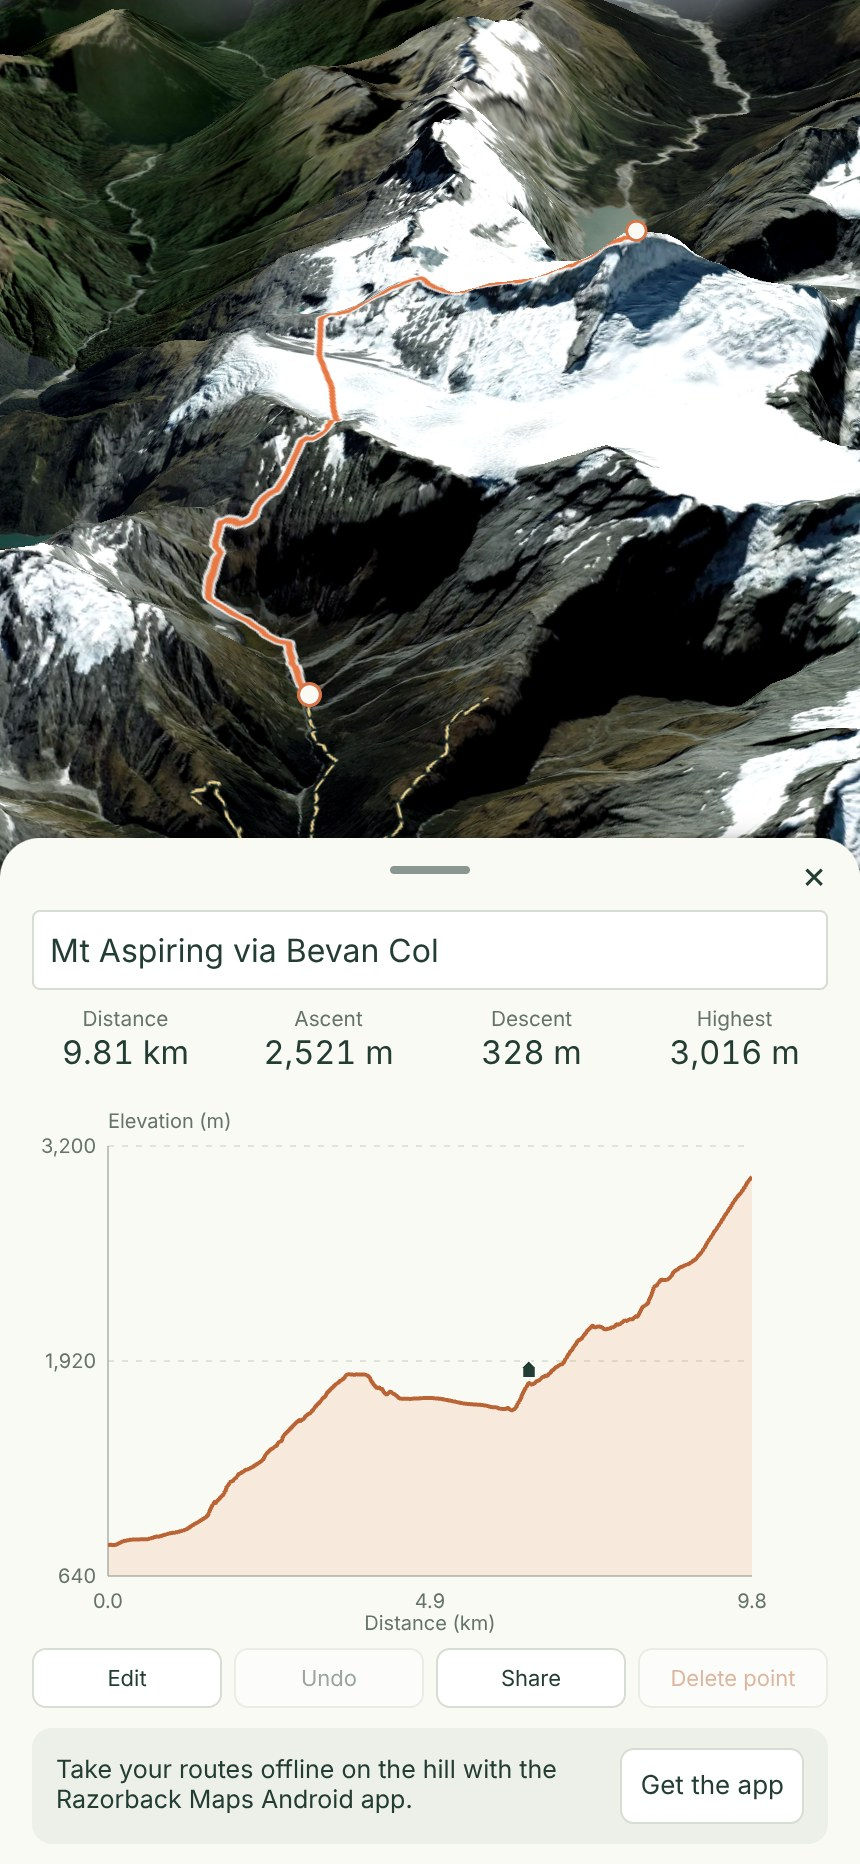
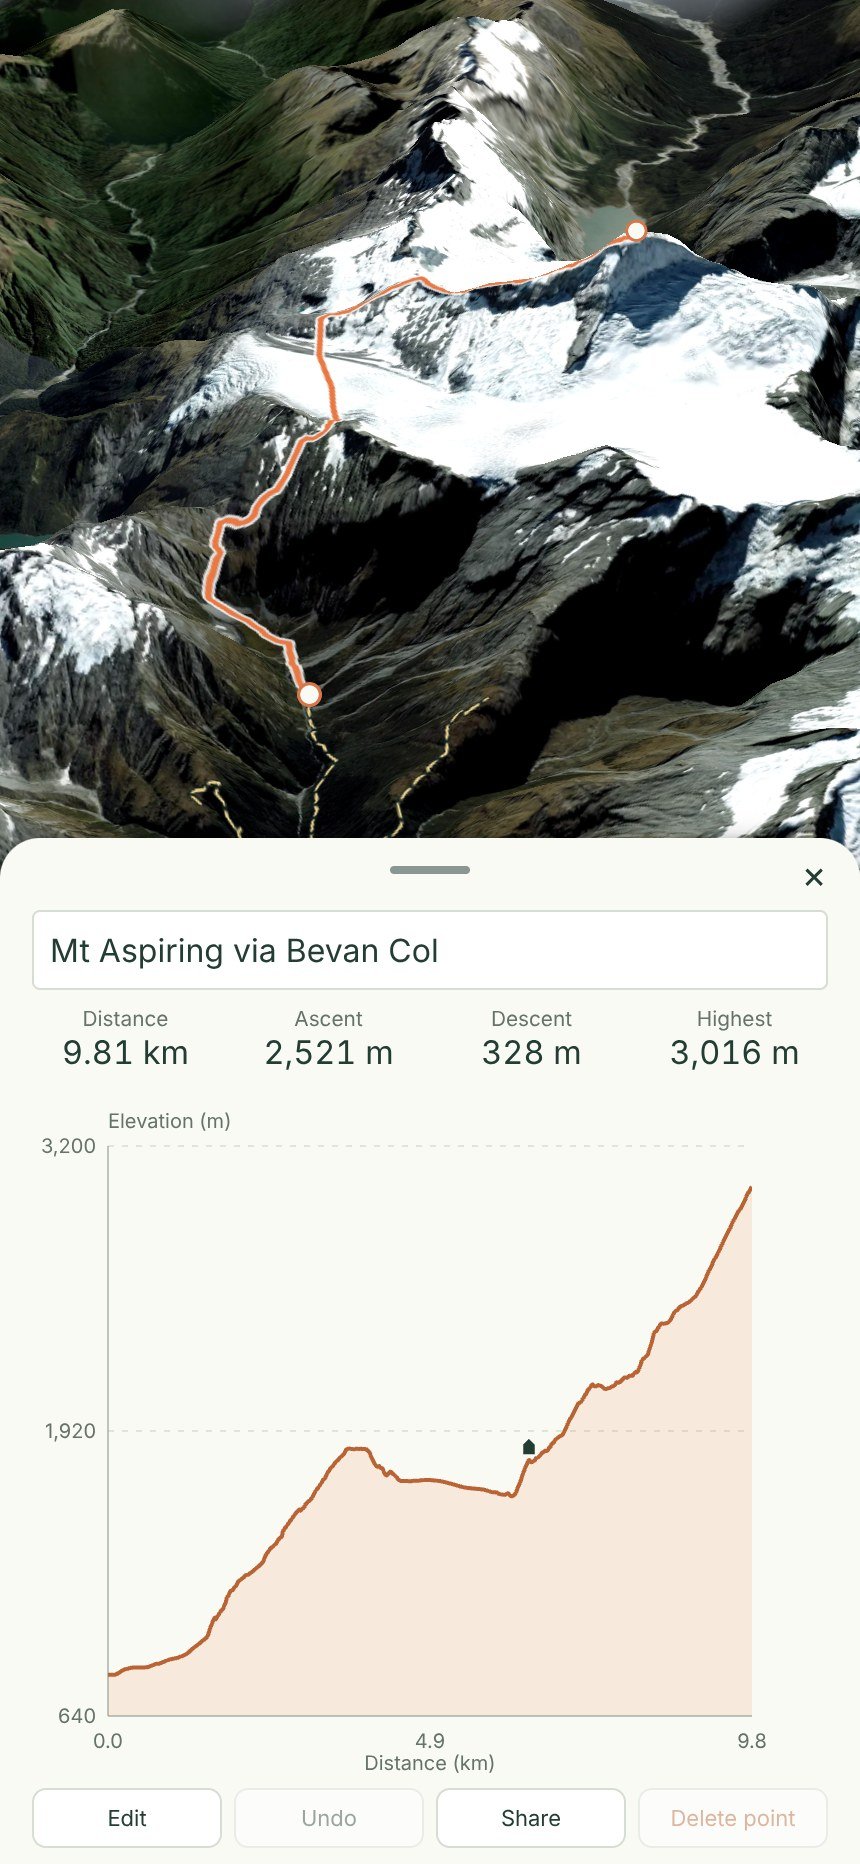
Website: offline picture with the features (four phones), brand beside the sign-up; route picture without the get-the-app note
Claude-Session: https://claude.ai/code/session_01KPVqhqnoVD1XLxnyNFCGVE

Changed region(s): [[0.0605, 0.809, 0.9372, 0.9957], [0.2419, 0.6534, 0.8465, 0.8401], [0.8465, 0.6223, 0.8767, 0.6534]]

diff --git a/website/src/about/index.html b/website/src/about/index.html
@@ -31,7 +31,7 @@
 
   <section id="features">
     <div class="wrap">
-      <div class="trio">
+      <div class="trio four">
         <figure class="phone">
           <picture><source type="image/webp" srcset="/img/promo/walk.webp"><img src="/img/promo/walk.jpg" alt="The Gillespie Pass Circuit in 3D, with its distance, climb and elevation profile with the huts along it" width="860" height="1864" loading="lazy" decoding="async"></picture>
           <figcaption><h2>Every DOC walk and hut</h2><p>Distance, climb, an elevation profile and the huts along the way, for every track DOC looks after.</p></figcaption>
@@ -44,6 +44,10 @@
           <picture><source type="image/webp" srcset="/img/promo/topo.webp"><img src="/img/promo/topo.jpg" alt="NZ Topo50 of the Routeburn Track from Harris Saddle to Routeburn Falls Hut" width="860" height="1864" loading="lazy" decoding="async"></picture>
           <figcaption><h2>NZ Topo, sharp</h2><p>The Topo50 map at full detail, with Te Araroa's sections, food stops and live alerts on top.</p></figcaption>
         </figure>
+        <figure class="phone">
+          <picture><source type="image/webp" srcset="/img/promo/offline.webp"><img src="/img/promo/offline.jpg" alt="The app's offline maps: the Travers-Sabine Circuit painted for download, Maximum detail over Travers Saddle and Standard along the valleys" width="860" height="1864" loading="lazy" decoding="async"></picture>
+          <figcaption><h2>Offline, painted to fit</h2><p>In the app, paint the area you need: high detail over the passes, lighter along the valleys, so the download stays small.</p></figcaption>
+        </figure>
       </div>
     </div>
   </section>
@@ -53,7 +57,7 @@
       <div class="app-band with-phone">
         <div>
           <h2>Take it on the hill</h2>
-          <p>The app keeps the map on your phone – whole areas or Te Araroa sections, with your routes and your position – for where there's no reception. Paint what you need: high detail over the passes, lighter along the valleys, so the download stays small.</p>
+          <p>The app keeps the map on your phone – whole areas or Te Araroa sections, with your routes and your position – for where there's no reception.</p>
           <form class="notify" data-notify novalidate>
             <label class="visually-hidden" for="notify-email">Email</label>
             <input id="notify-email" type="email" name="email" placeholder="Your email" autocomplete="email" required>
@@ -64,9 +68,11 @@
           </form>
           <p class="fine">Android first, then iPhone. One email when it's ready; nothing else. <a href="#privacy">Privacy</a></p>
         </div>
-        <figure class="phone">
-          <picture><source type="image/webp" srcset="/img/promo/offline.webp"><img src="/img/promo/offline.jpg" alt="The app's offline maps: the Travers-Sabine Circuit painted for download, Maximum detail over Travers Saddle and Standard along the valleys" width="860" height="1864" loading="lazy" decoding="async"></picture>
-        </figure>
+        <div class="brand-mark" aria-hidden="true">
+          <img src="/img/kea-512.png" alt="" width="512" height="512" loading="lazy" decoding="async">
+          <p>Razorback <b>Maps</b></p>
+          <span>For Android, then iPhone</span>
+        </div>
       </div>
     </div>
   </section>

diff --git a/website/src/css/site.css b/website/src/css/site.css
@@ -155,12 +155,18 @@ details p { margin: 12px 0 0; color: var(--muted); }
 .notify-status { flex-basis: 100%; min-height: 1.4em; margin: 4px 0 0; color: rgb(255 255 255 / 86%); }
 .app-band .fine { color: rgb(255 255 255 / 62%); margin-top: 10px; }
 .app-band .fine a { color: inherit; }
-/* With the offline picture: text left, the phone right; stacked on phones. */
+/* Beside the sign-up: the app's icon and name; stacked on phones. */
 .app-band.with-phone { max-width: 1000px; grid-template-columns: 1.4fr 1fr; text-align: left; gap: 48px; }
 .app-band.with-phone .notify { justify-content: flex-start; }
-.app-band.with-phone .phone { margin: 0; }
-.app-band.with-phone .phone img { display: block; width: 100%; max-width: 320px; height: auto; margin-left: auto; aspect-ratio: 430 / 932; border-radius: 28px; border: 6px solid #0f1c16; box-shadow: 0 18px 48px rgb(0 0 0 / 35%); }
-@media (max-width: 860px) { .app-band.with-phone { grid-template-columns: 1fr; text-align: center; } .app-band.with-phone .notify { justify-content: center; } .app-band.with-phone .phone img { margin: 0 auto; max-width: 300px; } }
+.brand-mark { display: flex; flex-direction: column; align-items: center; text-align: center; gap: 10px; }
+.brand-mark img { width: 100%; max-width: 200px; height: auto; border-radius: 22%; box-shadow: 0 18px 48px rgb(0 0 0 / 35%); }
+.brand-mark p { margin: 8px 0 0; font-size: 1.6rem; color: #fff; letter-spacing: -.01em; }
+.brand-mark span { font-size: .9rem; color: rgb(255 255 255 / 62%); }
+@media (max-width: 860px) { .app-band.with-phone { grid-template-columns: 1fr; text-align: center; } .app-band.with-phone .notify { justify-content: center; } .brand-mark { order: -1; } .brand-mark img { max-width: 120px; } }
+/* Four phones: four across, two on tablets, one on phones. */
+.trio.four { grid-template-columns: repeat(4, 1fr); gap: 24px; }
+@media (max-width: 1100px) { .trio.four { grid-template-columns: repeat(2, 1fr); max-width: 720px; margin: 0 auto; gap: 40px 32px; } }
+@media (max-width: 600px) { .trio.four { grid-template-columns: 1fr; max-width: 360px; gap: 48px; } }
 
 /* Walk, hut and Te Araroa pages (lib/seo-pages.mjs) */
 .place-page h1 { margin-bottom: 12px; }

diff --git a/website/src/css/map.css b/website/src/css/map.css
@@ -444,3 +444,6 @@ body.promo .maplibregl-ctrl-bottom-left, body.promo .maplibregl-ctrl-bottom-righ
 .place-text .facts dt { color: var(--muted); }
 .place-text .facts dd { margin: 0; }
 .place-text .prev-next { display: flex; justify-content: space-between; gap: 12px; margin: 8px 0; font-weight: 600; }
+
+/* ?promo pictures: the map as the app shows it, without the website's "get the app" notes. */
+body.promo .app-cta { display: none !important; }
